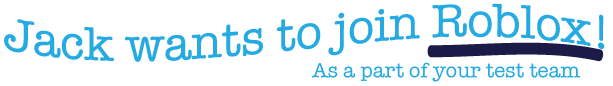
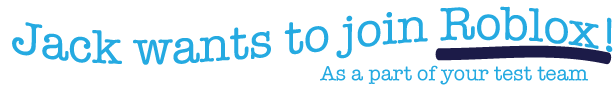
fixed roblox

Changed region(s): [[0.0, 0.0465, 1.0, 0.7209], [0.4959, 0.6977, 0.9608, 0.9535]]

diff --git a/snowflake/frontend/templates/roblox.html b/snowflake/frontend/templates/roblox.html
@@ -10,7 +10,7 @@
 <div id="topstripe">
 <div class="container">
   <div id="header" class="fourteen columns offset-by-one">
-    <img src="{% get_static_prefix %}images/roblox.png" width=100%/>
+    <img src="{% get_static_prefix %}images/rob.png" width=100%/>
   </div><!--closes header-->
 
     <h3 id ="top_tag"class="ten columns offset-by-three">Top 5 reasons you should hire me:</h3>
@@ -21,9 +21,9 @@
     <ul>
       <li><h5>1. I'm energetic, passionate about technology, and ready to make an impact day one</h5></li>
       <li><h5>2. I'm relentlessly resourceful - give me any task and I'll pick it up and run with it</h5></li>
-      <li><h5>3. In my 2.5 years in consulting, I managed relationships with clients at Fortune 500 tech companies and I am generally a people person</h5></li>
+      <li><h5>3. I am detail oriented and organized</h5></li>
       <li><h5>4. I'm not an engineer but have built apps using Python and Django</h5></li>
-      <li><h5>5. I beleive in the Exec product and want to help improve it</h5></li>
+      <li><h5>5. I learn quickly and want to continue to develop as a programmer</h5></li>
     </ul>
   </div><!--closes summary-->
 
